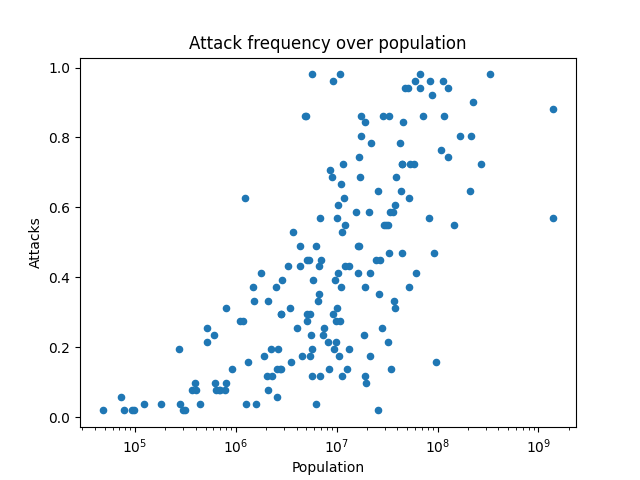
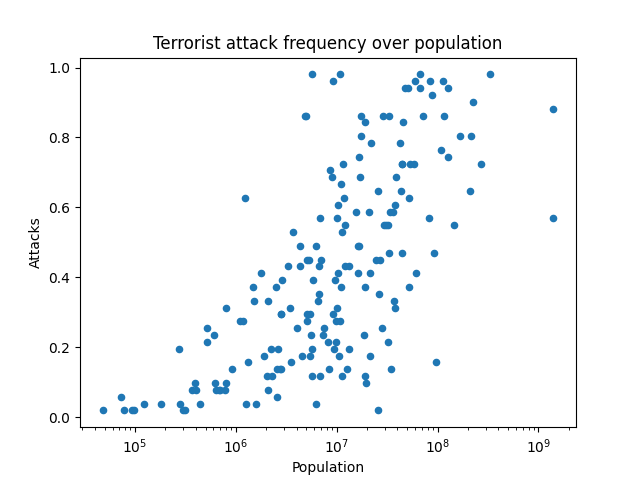
Minor

Changed region(s): [[0.25, 0.0625, 0.7812, 0.125]]

diff --git a/dataexpl.py b/dataexpl.py
@@ -1,4 +1,5 @@
 import pandas as pd
+import numpy as np
 import matplotlib.pyplot as plt
 
 def dataexpl():
@@ -15,10 +16,8 @@ def dataexpl():
     for ctry, ctry_data in main_data.groupby(axis=0, level=0):
         attacks.loc[ctry, "Population"] = ctry_data.iloc[-1, :].loc["Population"]
         attacks.loc[ctry, "Attacks"] =\
-            len(ctry_data[ctry_data["Terrorist attack"] == True]) /\
-            (len(ctry_data[ctry_data["Terrorist attack"] == False]) +
-             len(ctry_data[ctry_data["Terrorist attack"] == True]))
+            len(ctry_data[ctry_data["Terrorist attack"] == True]) / ctry_data.loc[:, "Terrorist attack"].count()
     attacks.dropna(inplace=True)
     attacks.sort_values(by="Population", inplace=True)
-    attacks.plot(x="Population", y="Attacks", kind="scatter", logx=True, title="Attack frequency over population")
+    attacks.plot(x="Population", y="Attacks", kind="scatter", logx=True, title="Terrorist attack frequency over population")
     plt.show()
